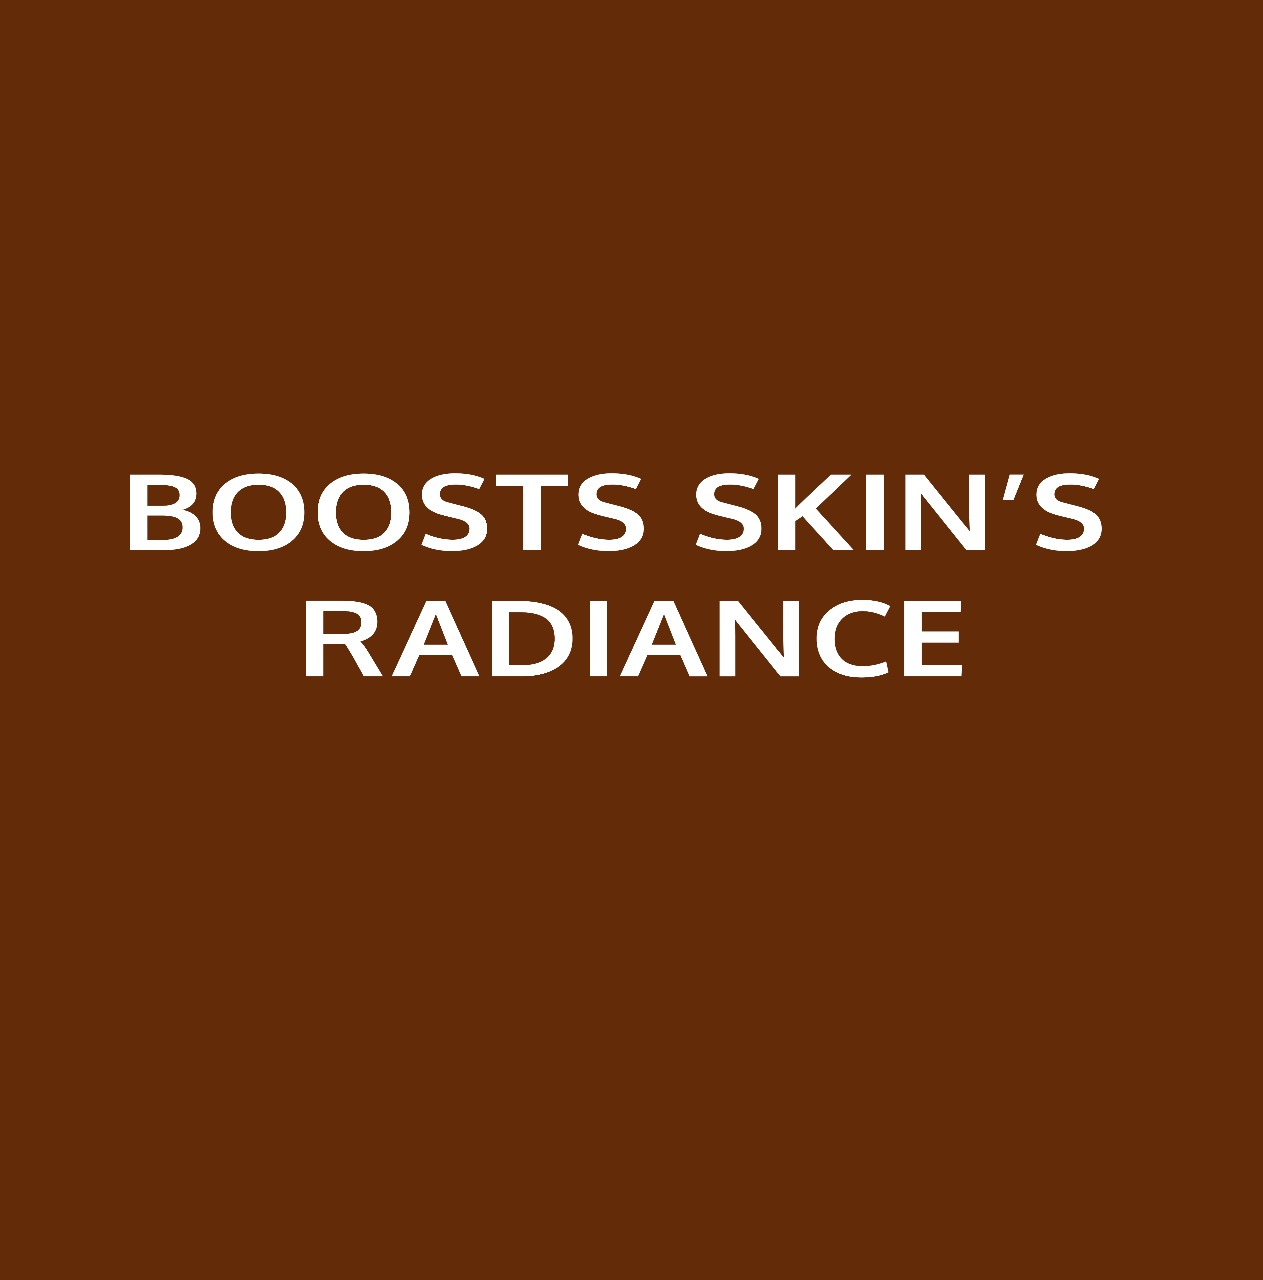
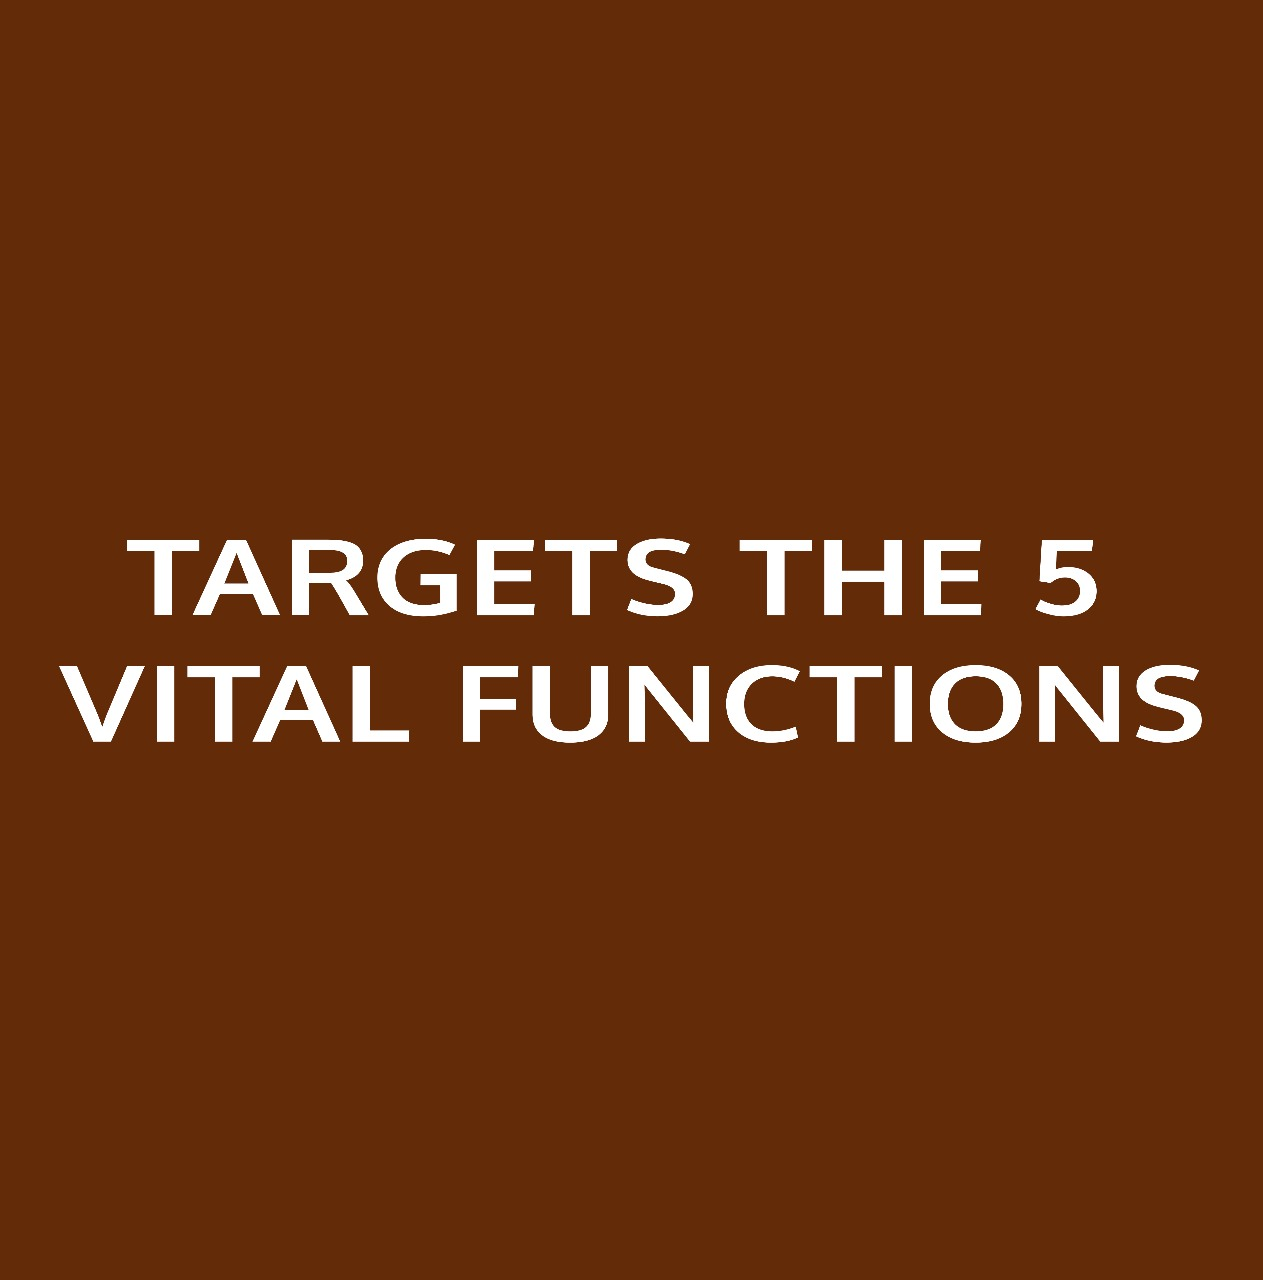
Minor

Changed region(s): [[0.0309, 0.3438, 0.9572, 0.5938]]

diff --git a/explanation.html b/explanation.html
@@ -18,56 +18,66 @@
     <div class="carousel">
       <div class="carousel-content">
         <div>
-          <img src="assets/1.png" style="height: 80px; margin: 15px;" alt="">
+          <img src="assets/1.png" style="height: 80px; margin: 20px;" alt="">
           <p>Leaf of Life</p>
           <p>Hydration</p>
         </div>
         <div>
-          <img src="assets/2.png" style="height: 80px; margin: 15px;" alt="">
+          <img src="assets/2.png" style="height: 80px; margin: 20px;" alt="">
           <p>Mary's thistle</p>
           <p>Nutrition</p>
         </div>
         <div>
-          <img src="assets/3.png" style="height: 80px; margin: 15px;" alt="">
+          <img src="assets/3.png" style="height: 80px; margin: 20px;" alt="">
           <p>Teasel</p>
           <p>Oxygenation</p>
         </div>
         <div>
-          <img src="assets/6.png" style="height: 80px; margin: 15px;" alt="">
+          <img src="assets/6.png" style="height: 80px; margin: 20px;" alt="">
           <p>Hang Qi</p>
           <p>Regenaration</p>
         </div>
         <div>
-          <img src="assets/5.png" style="height: 80px; margin: 15px;" alt="">
+          <img src="assets/5.png" style="height: 80px; margin: 20px;" alt="">
           <p>Edelweiss</p>
           <p>Protection</p>
+        </div>
+        <div>
+          <img src="assets/6.png" style="height: 80px; margin: 20px;" alt="">
+          <p>Double Serum</p>
+          <p>Targets the 5<br/> vital functions</p>
         </div>
       </div>
       <div class="carousel-content">
         <div>
-          <img src="assets/1.png" style="height: 80px; margin: 15px;" alt="">
+          <img src="assets/1.png" style="height: 80px; margin: 20px;" alt="">
           <p>Leaf of Life</p>
           <p>Hydration</p>
         </div>
         <div>
-          <img src="assets/2.png" style="height: 80px; margin: 15px;" alt="">
+          <img src="assets/2.png" style="height: 80px; margin: 20px;" alt="">
           <p>Mary's thistle</p>
           <p>Nutrition</p>
         </div>
         <div>
-          <img src="assets/3.png" style="height: 80px; margin: 15px;" alt="">
+          <img src="assets/3.png" style="height: 80px; margin: 20px;" alt="">
           <p>Teasel</p>
           <p>Oxygenation</p>
         </div>
         <div>
-          <img src="assets/6.png" style="height: 80px; margin: 15px;" alt="">
+          <img src="assets/6.png" style="height: 80px; margin: 20px;" alt="">
           <p>Hang Qi</p>
           <p>Regenaration</p>
         </div>
         <div>
-          <img src="assets/5.png" style="height: 80px; margin: 15px;" alt="">
+          <img src="assets/5.png" style="height: 80px; margin: 20px;" alt="">
           <p>Edelweiss</p>
           <p>Protection</p>
+        </div>
+        <div>
+          <img src="assets/4.png" style="height: 80px; margin: 20px;" alt="">
+          <p>Double Serum</p>
+          <p>Targets the 5<br/> vital functions</p>
         </div>
       </div>
     </div>

diff --git a/css/styles.css b/css/styles.css
@@ -44,8 +44,9 @@ p {
 }
 
 .result-main-screen {
-  background-image: url('../img/bg/res-banner.png');
-  background-size: contain;
+  background-image: url('../img/bg/res-banner.jpeg');
+  background-repeat: no-repeat;
+  background-size: cover;
   background-position: center;
   display: flex;
   flex-direction: column;
@@ -256,11 +257,11 @@ p {
 
 .score {
   position: fixed;
-  bottom: 80px; /* Adjust the margin above the bottom */
-  margin-right: 10px;
+  bottom: 20px; /* Adjust the margin above the bottom */
+  /* margin-right: 200px; */
   left: 0;
-  width: 33.33%; /* One third of the screen's width */
-  padding: 20px;
+  width: 100%; /* One third of the screen's width */
+  padding: 15px;
   color: black;
   font-weight: 700;
   font-size: 1.2rem;

diff --git a/js/game.js b/js/game.js
@@ -1,7 +1,7 @@
 const images = [
     { 
         primary: 'assets/4.png',  
-        hints: ['assets/hints/double-syrum.png', 'assets/hints/boosts.jpeg']
+        hints: ['assets/hints/double-syrum.jpeg', 'assets/hints/boosts.jpeg']
     },
     { 
         primary: 'assets/5.png',  
